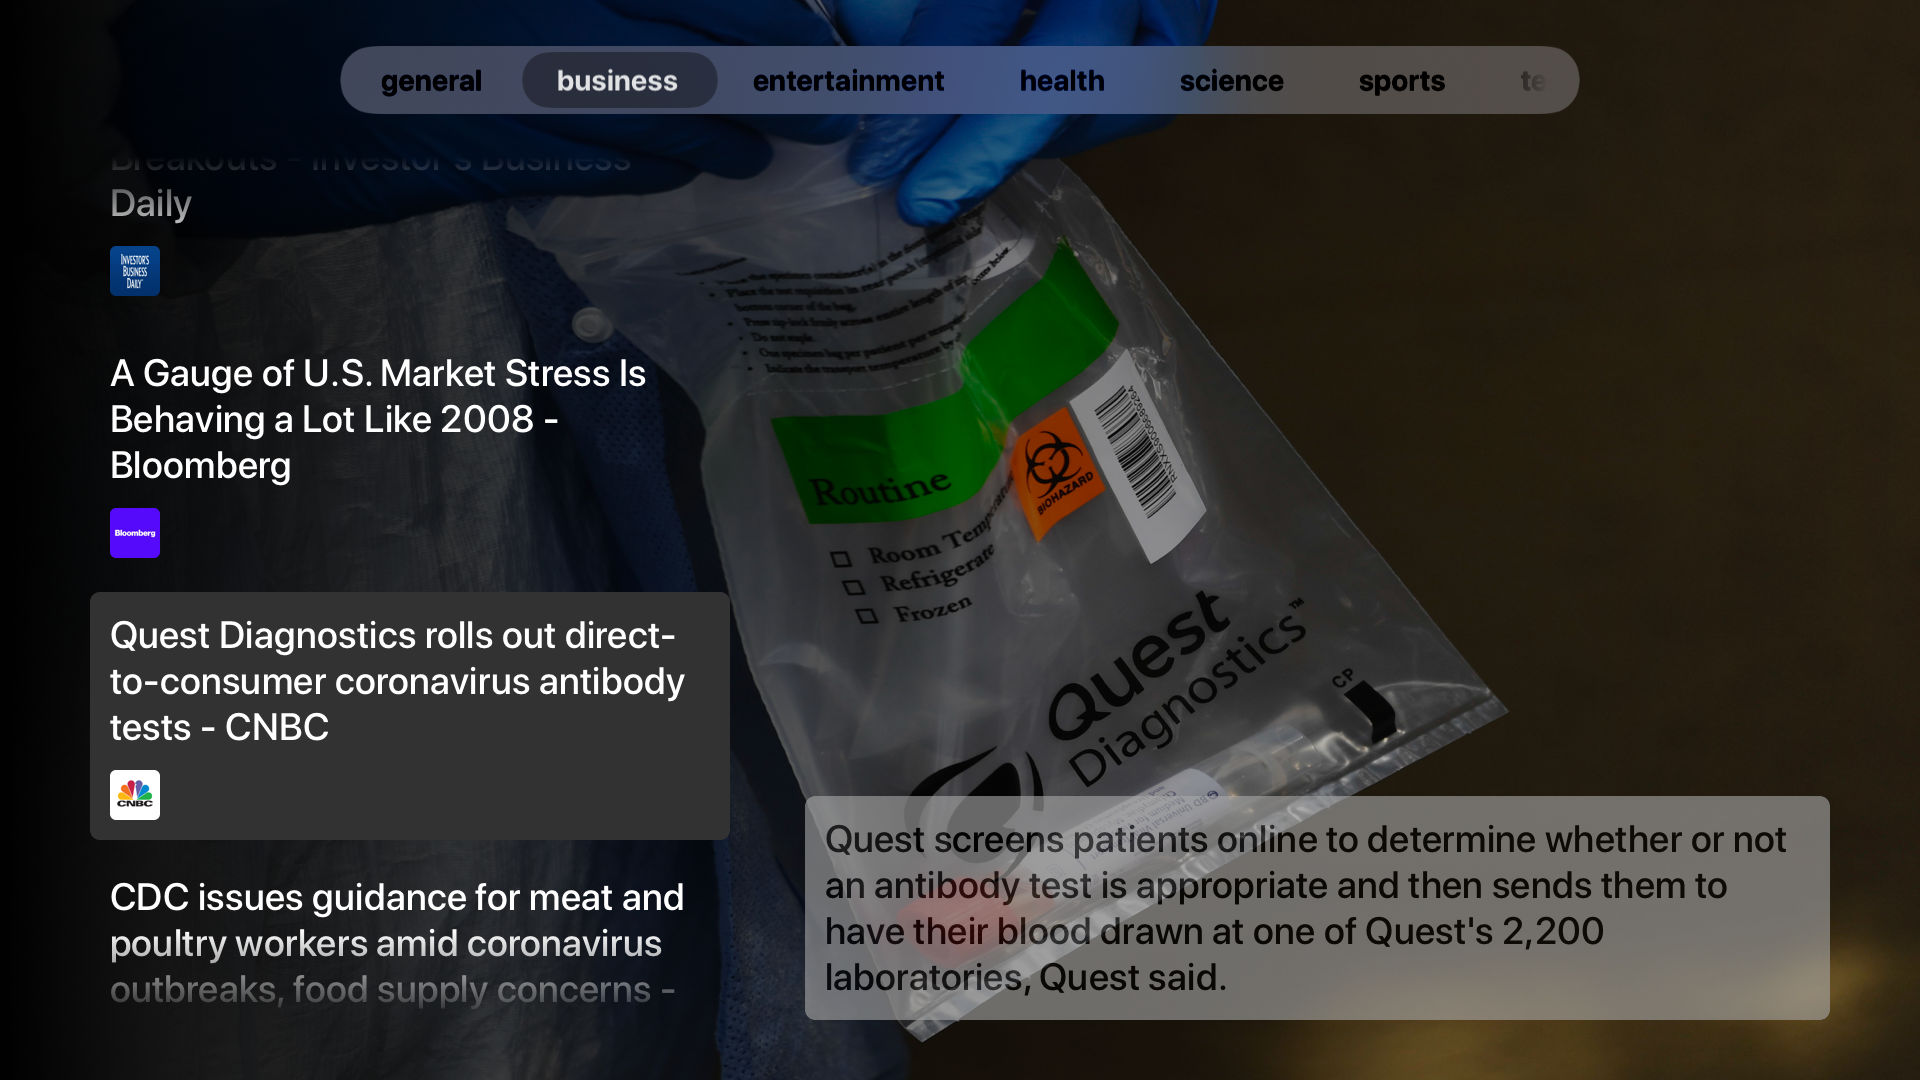
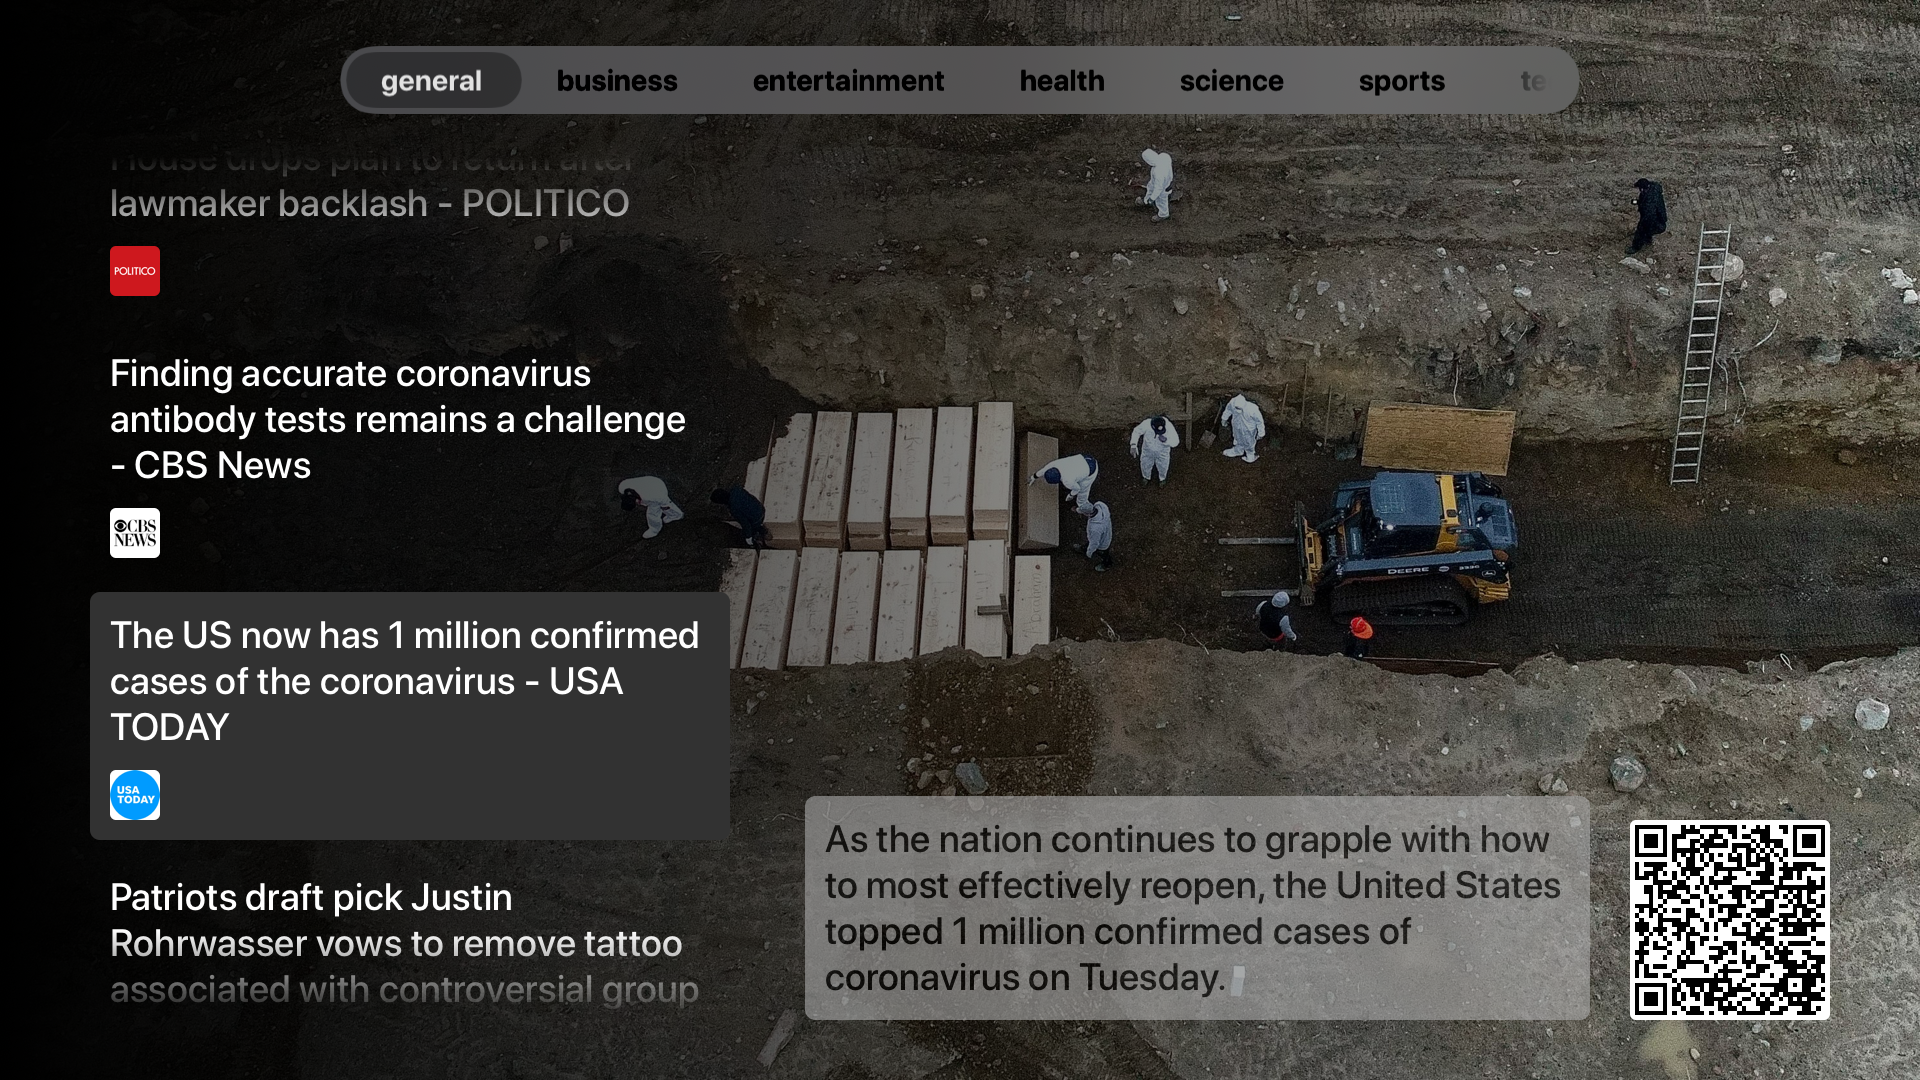
tvOS: Add QR code

diff --git a/Xcode/TheNews.tvos/TvExtension.swift b/Xcode/TheNews.tvos/TvExtension.swift
@@ -23,3 +23,61 @@ extension UIView {
         self.layer.masksToBounds = true
     }
 }
+
+// Credits: https://www.avanderlee.com/swift/qr-code-generation-swift/
+extension CIImage {
+    /// Inverts the colors and creates a transparent image by converting the mask to alpha.
+    /// Input image should be black and white.
+    var transparent: CIImage? {
+        return inverted?.blackTransparent
+    }
+
+    /// Inverts the colors.
+    var inverted: CIImage? {
+        guard let invertedColorFilter = CIFilter(name: "CIColorInvert") else { return nil }
+
+        invertedColorFilter.setValue(self, forKey: "inputImage")
+        return invertedColorFilter.outputImage
+    }
+
+    /// Converts all black to transparent.
+    var blackTransparent: CIImage? {
+        guard let blackTransparentFilter = CIFilter(name: "CIMaskToAlpha") else { return nil }
+        blackTransparentFilter.setValue(self, forKey: "inputImage")
+        return blackTransparentFilter.outputImage
+    }
+
+    /// Applies the given color as a tint color.
+    func tinted(using color: UIColor) -> CIImage? {
+        guard
+            let transparentQRImage = transparent,
+            let filter = CIFilter(name: "CIMultiplyCompositing"),
+            let colorFilter = CIFilter(name: "CIConstantColorGenerator") else { return nil }
+
+        let ciColor = CIColor(color: color)
+        colorFilter.setValue(ciColor, forKey: kCIInputColorKey)
+        let colorImage = colorFilter.outputImage
+
+        filter.setValue(colorImage, forKey: kCIInputImageKey)
+        filter.setValue(transparentQRImage, forKey: kCIInputBackgroundImageKey)
+
+        return filter.outputImage!
+    }
+}
+
+extension URL {
+    /// Creates a QR code for the current URL in the given color.
+    func qrImage(using color: UIColor) -> CIImage? {
+        return qrImage?.tinted(using: color)
+    }
+
+    /// Returns a black and white QR code for this URL.
+    var qrImage: CIImage? {
+        guard let qrFilter = CIFilter(name: "CIQRCodeGenerator") else { return nil }
+        let qrData = absoluteString.data(using: String.Encoding.ascii)
+        qrFilter.setValue(qrData, forKey: "inputMessage")
+
+        let qrTransform = CGAffineTransform(scaleX: 12, y: 12)
+        return qrFilter.outputImage?.transformed(by: qrTransform)
+    }
+}

diff --git a/Xcode/TheNews.tvos/TvViewController.swift b/Xcode/TheNews.tvos/TvViewController.swift
@@ -15,6 +15,7 @@ class TvViewController: UIViewController {
     private let tableView = UITableView()
     private let backgroundImageView = UIImageView()
     private let content = InsetLabel()
+    private let qrImageView = UIImageView()
 
     // Date
     private var items: [Article] = []
@@ -45,6 +46,9 @@ extension TvViewController: Configurable {
         tableView.dataSource = self
         tableView.delegate = self
         tableView.register(TvNewsCell.self, forCellReuseIdentifier: TvNewsCell.ReuseIdentifier)
+
+        qrImageView.layer.cornerRadius = 6
+        qrImageView.layer.masksToBounds = true
     }
     
     func config() {
@@ -64,12 +68,18 @@ extension TvViewController: Configurable {
             tableView.widthAnchor.constraint(equalToConstant: tableWidth),
         ])
         
-        // Content
+        // Content, QR code
         view.addSubviewForAutoLayout(content)
+        view.addSubviewForAutoLayout(qrImageView)
         NSLayoutConstraint.activate([
             content.leadingAnchor.constraint(equalTo: tableView.trailingAnchor, constant: 75),
             view.safeAreaLayoutGuide.bottomAnchor.constraint(equalTo: content.bottomAnchor),
-            view.safeAreaLayoutGuide.trailingAnchor.constraint(equalTo: content.trailingAnchor),
+            qrImageView.leadingAnchor.constraint(equalTo: content.trailingAnchor, constant: 40),
+
+            qrImageView.heightAnchor.constraint(equalToConstant: 200),
+            qrImageView.widthAnchor.constraint(equalToConstant: 200),
+            view.safeAreaLayoutGuide.trailingAnchor.constraint(equalTo: qrImageView.trailingAnchor),
+            view.safeAreaLayoutGuide.bottomAnchor.constraint(equalTo: qrImageView.bottomAnchor),
         ])
     }
 }
@@ -139,6 +149,11 @@ private extension TvViewController {
 
         content.alpha = 0.6
         content.label.text = item.descriptionOrContent
+
+        guard let ciImage = item.url?.qrImage else { return }
+
+        let image = UIImage.init(ciImage: ciImage)
+        qrImageView.image = image
     }
 
     func updateImage(url: String?) {
